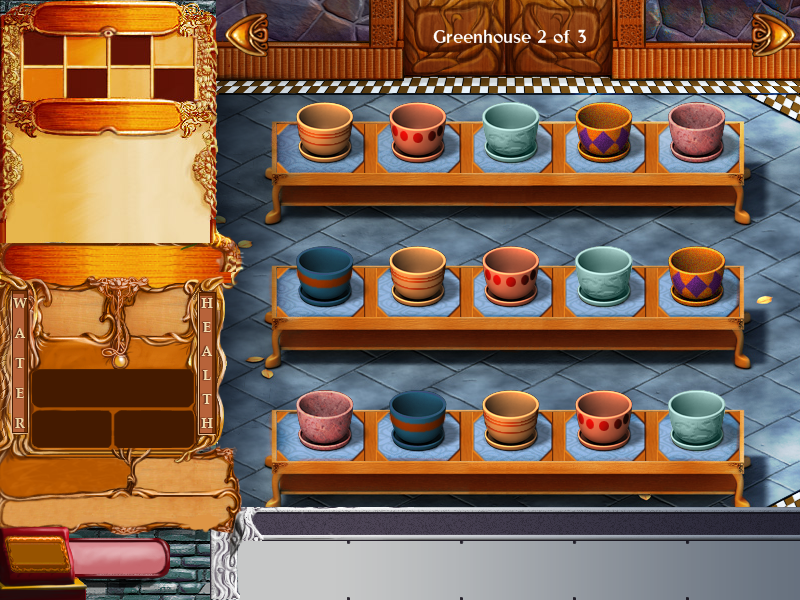
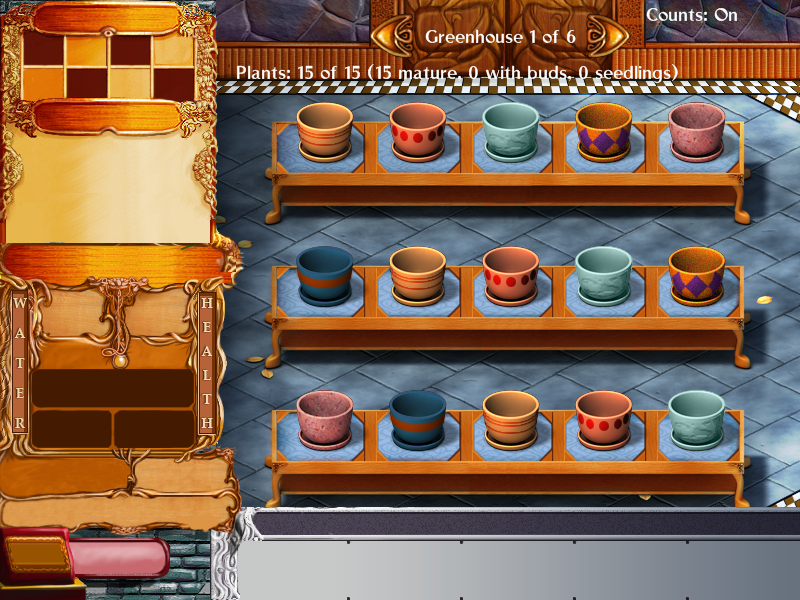
Extra greenhouses: the arrows beside the greenhouse's name, where they can be seen
The left arrow (x 222) sat under the stock left panel's edge and the right
one (x 748) under the camera button. They now stand on the top wall just
outside the widest name, "Greenhouse 6 of 6" (154 px, centred at x 500):
x 367-416 and 583-632, y 11-60, vertically centred on the text, clear of
the counts' "Counts: On" (646-744) and Plants line (y 62). Drops on the
arrows use the new places. The nursery's arrows (its sky) were not hidden
and stay.

Tests: the arrows are inside the free top wall and clear of the panel, the
camera, the name and the counts; drops at the new places switch greenhouse.
Mockup: docs/images/extra-greenhouses-switch.png ("Greenhouse 1 of 6" with
the arrows and the counts).

Changed region(s): [[0.2812, 0.0, 0.8438, 0.15], [0.8125, 0.0, 1.0, 0.12]]

diff --git a/tests/test_extra_greenhouses.py b/tests/test_extra_greenhouses.py
@@ -49,6 +49,19 @@ HELD, SELECTED, HELD_POT = 0x56C, 0x63E58, 0x3E8
 FOR_SALE, PLANTED, FOLIAGE, FLOWER, AGE, HEALTH = 0x9D, 0x38, 0x4C, 0x50, 0x10, 0x24
 HOME, NURSERY = 0, 100
 
+SOURCE = ROOT / "native" / "ftfp_extra_greenhouses" / "ftfp_extra_greenhouses.c"
+
+
+def constant(name: str) -> int:
+    """A #define of the DLL's source (the arrows' and labels' places)."""
+    import re
+    return int(re.search(rf"#define {name} (\d+)", SOURCE.read_text(encoding="utf-8")).group(1))
+
+
+# The middle of each greenhouse arrow, where a click or a drop lands.
+LEFT_ARROW = (constant("LEFT_X") + 25, constant("ARROW_Y") + 25)
+RIGHT_ARROW = (constant("RIGHT_X") + 25, constant("ARROW_Y") + 25)
+
 HAVE = E is not None and PLANT_EXE.is_file() and E.toolchain_ready()
 needs_game = unittest.skipUnless(HAVE, "needs Unicorn, the vanilla Plant Tycoon.exe and the pinned MSVC toolset")
 
@@ -398,7 +411,7 @@ class MoveTests(unittest.TestCase):
     def drop_on_arrow(self, game: Game, right: bool, k: int) -> None:
         emu = game.emu
         emu.write32(game.state + HELD, HELD_POT + k)
-        emu.call(emu.sym("@gh_mouse@20"), 3, 760 if right else 230, 30, ecx=game.scene)
+        emu.call(emu.sym("@gh_mouse@20"), 3, *(RIGHT_ARROW if right else LEFT_ARROW), ecx=game.scene)
 
     def test_a_pot_dragged_onto_an_arrow_moves_to_the_same_place_in_that_greenhouse(self) -> None:
         game = grow(0, 4, ((4, 13, 13),), (7200,))
@@ -872,7 +885,7 @@ class OwnershipTests(unittest.TestCase):
         emu.hook(0x004273D0, lambda e: 0, 0xC)               # the stock mouse: the plant goes back to its pot
         game.show(0)
         emu.write32(game.state + HELD, HELD_POT + 4)
-        emu.call(emu.sym("@gh_mouse@20"), 3, 230, 30, ecx=game.scene)      # the left arrow's place
+        emu.call(emu.sym("@gh_mouse@20"), 3, *LEFT_ARROW, ecx=game.scene)  # the left arrow's place
         game.show(0, active=0)
         self.assertEqual(game.pot_bytes(0, 4), plant)
         self.assertTrue(all(game.emu.read32(game.pot(g, k) + FOLIAGE) == 0
@@ -881,7 +894,7 @@ class OwnershipTests(unittest.TestCase):
         emu.write32(emu.sym("_owned"), 2)
         game.show(0)
         emu.write32(game.state + HELD, HELD_POT + 4)
-        emu.call(emu.sym("@gh_mouse@20"), 3, 230, 30, ecx=game.scene)
+        emu.call(emu.sym("@gh_mouse@20"), 3, *LEFT_ARROW, ecx=game.scene)
         game.show(0, active=0)
         self.assertEqual(game.pot_bytes(2, 4), plant)
 
@@ -1269,6 +1282,43 @@ class BackupTests(unittest.TestCase):
         self.save_backup.restore_backup("plant", self.folder, backup, 2, self.processes())
         self.assertEqual((self.data / "Extra Greenhouses 2.dat").read_bytes(), b"greenhouses 2")
         self.assertEqual((self.data / "Extra Greenhouses 1.dat").read_bytes(), b"later 1")
+
+
+class ArrowLayoutTests(unittest.TestCase):
+    """The greenhouse arrows stand on the top wall beside the name, where the player can see and click them:
+    clear of the stock left panel (to x 240), the camera button (from x 760), the name at its widest
+    ("Greenhouse 6 of 6") and the greenhouse counts ("Counts: On" at 646-744 x 4-24, the Plants line from y 62)."""
+
+    @staticmethod
+    def rect(x: int, y: int, w: int, h: int) -> tuple[int, int, int, int]:
+        return x, y, x + w, y + h
+
+    @staticmethod
+    def apart(a, b) -> bool:
+        return a[2] <= b[0] or b[2] <= a[0] or a[3] <= b[1] or b[3] <= a[1]
+
+    @unittest.skipUnless(PLANT_EXE.is_file(), "needs the vanilla Plant Tycoon.exe (its font)")
+    def test_the_arrows_are_beside_the_name_and_clear_of_the_stock_ui(self) -> None:
+        sys.path.insert(0, str(ROOT / "scripts"))
+        import render_extra_greenhouses_preview as R
+        folder = PLANT_EXE.parent
+        exe = PLANT_EXE.read_bytes()
+        widest = R.words(folder, exe, "Greenhouse 6 of 6")
+        x, y = constant("LABEL_X") - widest.width // 2, constant("LABEL_Y")
+        name = (x, y, x + widest.width, y + widest.height)
+        left = self.rect(constant("LEFT_X"), constant("ARROW_Y"), 50, 50)
+        right = self.rect(constant("RIGHT_X"), constant("ARROW_Y"), 50, 50)
+        free = (240, 0, 760, 62)                                        # the top wall, panel to camera, above the Plants line
+        for arrow in (left, right):
+            self.assertTrue(free[0] <= arrow[0] and arrow[2] <= free[2] and free[1] <= arrow[1] and arrow[3] <= free[3], arrow)
+            self.assertTrue(self.apart(arrow, name), arrow)
+            self.assertTrue(self.apart(arrow, (646, 4, 744, 24)), arrow)  # "Counts: On"
+        self.assertLess(left[2], name[0])
+        self.assertGreater(right[0], name[2])
+        self.assertLessEqual(name[0] - left[2], 12)                     # just beside the name
+        self.assertLessEqual(right[0] - name[2], 12)
+        middle = (name[1] + name[3]) / 2
+        self.assertLessEqual(abs((left[1] + left[3]) / 2 - middle), 2)  # centred on the text
 
 
 class ManifestTests(unittest.TestCase):

diff --git a/scripts/render_extra_greenhouses_preview.py b/scripts/render_extra_greenhouses_preview.py
@@ -132,7 +132,10 @@ def main() -> int:
             pot = pots.crop((0, style * frame_h, pots.width, (style + 1) * frame_h))
             screen.alpha_composite(pot, (323 + 93 * column - 28, 117 + 144 * row - 15))
     arrows(screen, images, constant("LEFT_X"), constant("RIGHT_X"), constant("ARROW_Y"))
-    centred(screen, words(folder, exe, "Greenhouse 2 of 3"), constant("LABEL_X"), constant("LABEL_Y"))
+    centred(screen, words(folder, exe, "Greenhouse 1 of 6"), constant("LABEL_X"), constant("LABEL_Y"))
+    # The greenhouse counts (native/ftfp_greenhouse_counts) as they stand with the arrows shown.
+    screen.alpha_composite(words(folder, exe, "Counts: On"), (646, 4))
+    screen.alpha_composite(words(folder, exe, "Plants: 15 of 15 (15 mature, 0 with buds, 0 seedlings)"), (236, 62))
     save(screen, "extra-greenhouses-switch.png")
 
     # The stock nursery screen as its draw lays it out (0x437183..0x437880 and 0x4375EC): the

diff --git a/native/ftfp_extra_greenhouses/ftfp_extra_greenhouses.c b/native/ftfp_extra_greenhouses/ftfp_extra_greenhouses.c
@@ -79,10 +79,15 @@
 #define ARROW_NEXT 41
 #define ARROW_W 50
 #define ARROW_H 50
-#define LEFT_X 222
-#define RIGHT_X 748
-#define ARROW_Y 10
-#define LABEL_X 510
+/* The greenhouse's name and arrows, on the top wall between the stock left panel (to about x 240)
+   and the camera button (from about x 760).  The name is centred at LABEL_X; at its widest,
+   "Greenhouse 6 of 6", it is 154 px of PTfontsmall (x 423-577, y 26-47).  The arrows stand at
+   fixed places just outside that, vertically centred on the text (x 367-416 and 583-632, y 11-60),
+   clear of the greenhouse counts' "Counts: On" (x 646-744, y 4-24) and Plants line (y 62). */
+#define LEFT_X 367
+#define RIGHT_X 583
+#define ARROW_Y 11
+#define LABEL_X 500
 #define LABEL_Y 26
 #define NU_LEFT_X 220                    /* the nursery's arrows and label, in its sky */
 #define NU_RIGHT_X 530

diff --git a/CHANGELOG.md b/CHANGELOG.md
@@ -1,5 +1,12 @@
 # Changelog
 
+## Unreleased
+
+- Plant Tycoon, 5 extra greenhouses: the gold arrows now stand right beside
+  "Greenhouse n of 6" on the top wall (x 367-416 and 583-632), where they can
+  be seen and clicked; they were under the stock left panel and the camera
+  button. Dragging a plant onto them uses the new places.
+
 ## v1.0.17
 
 New content for both games (DS fish, fins and store animals; the 14 unused
